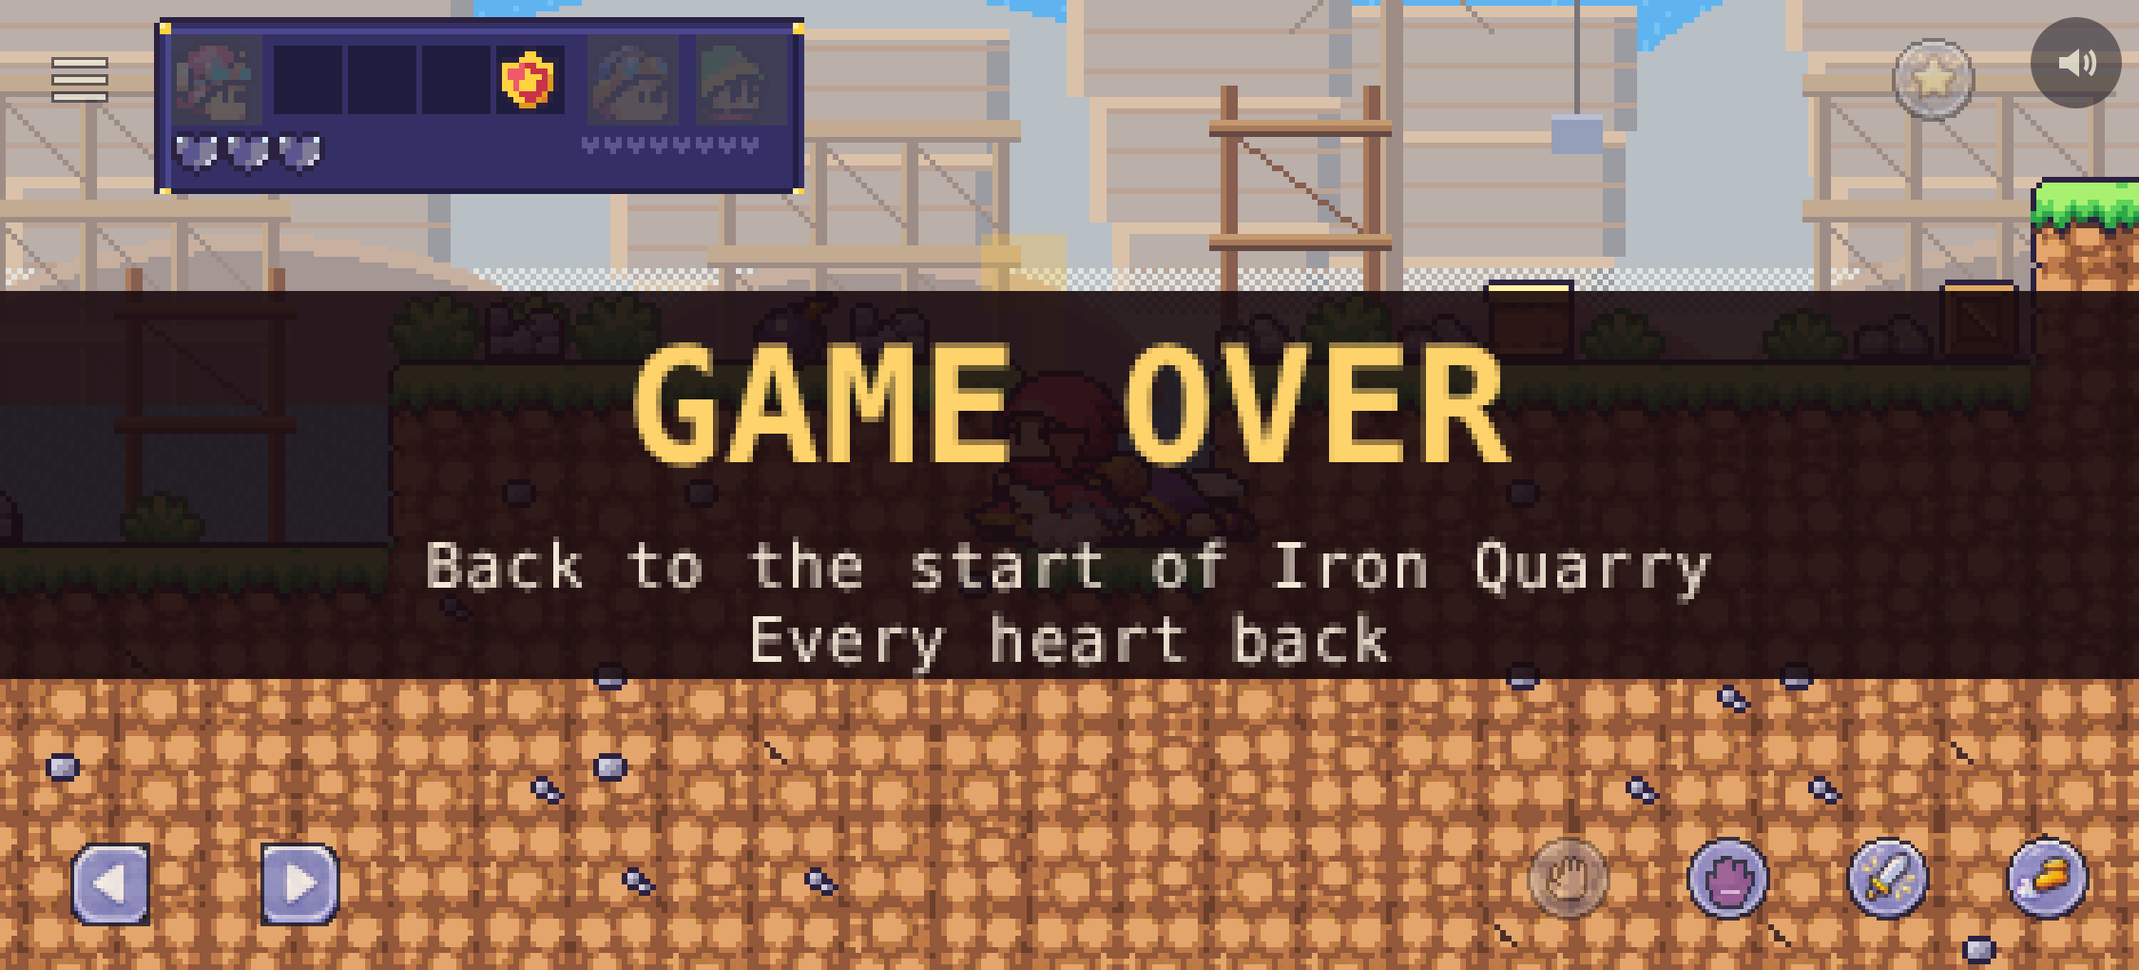
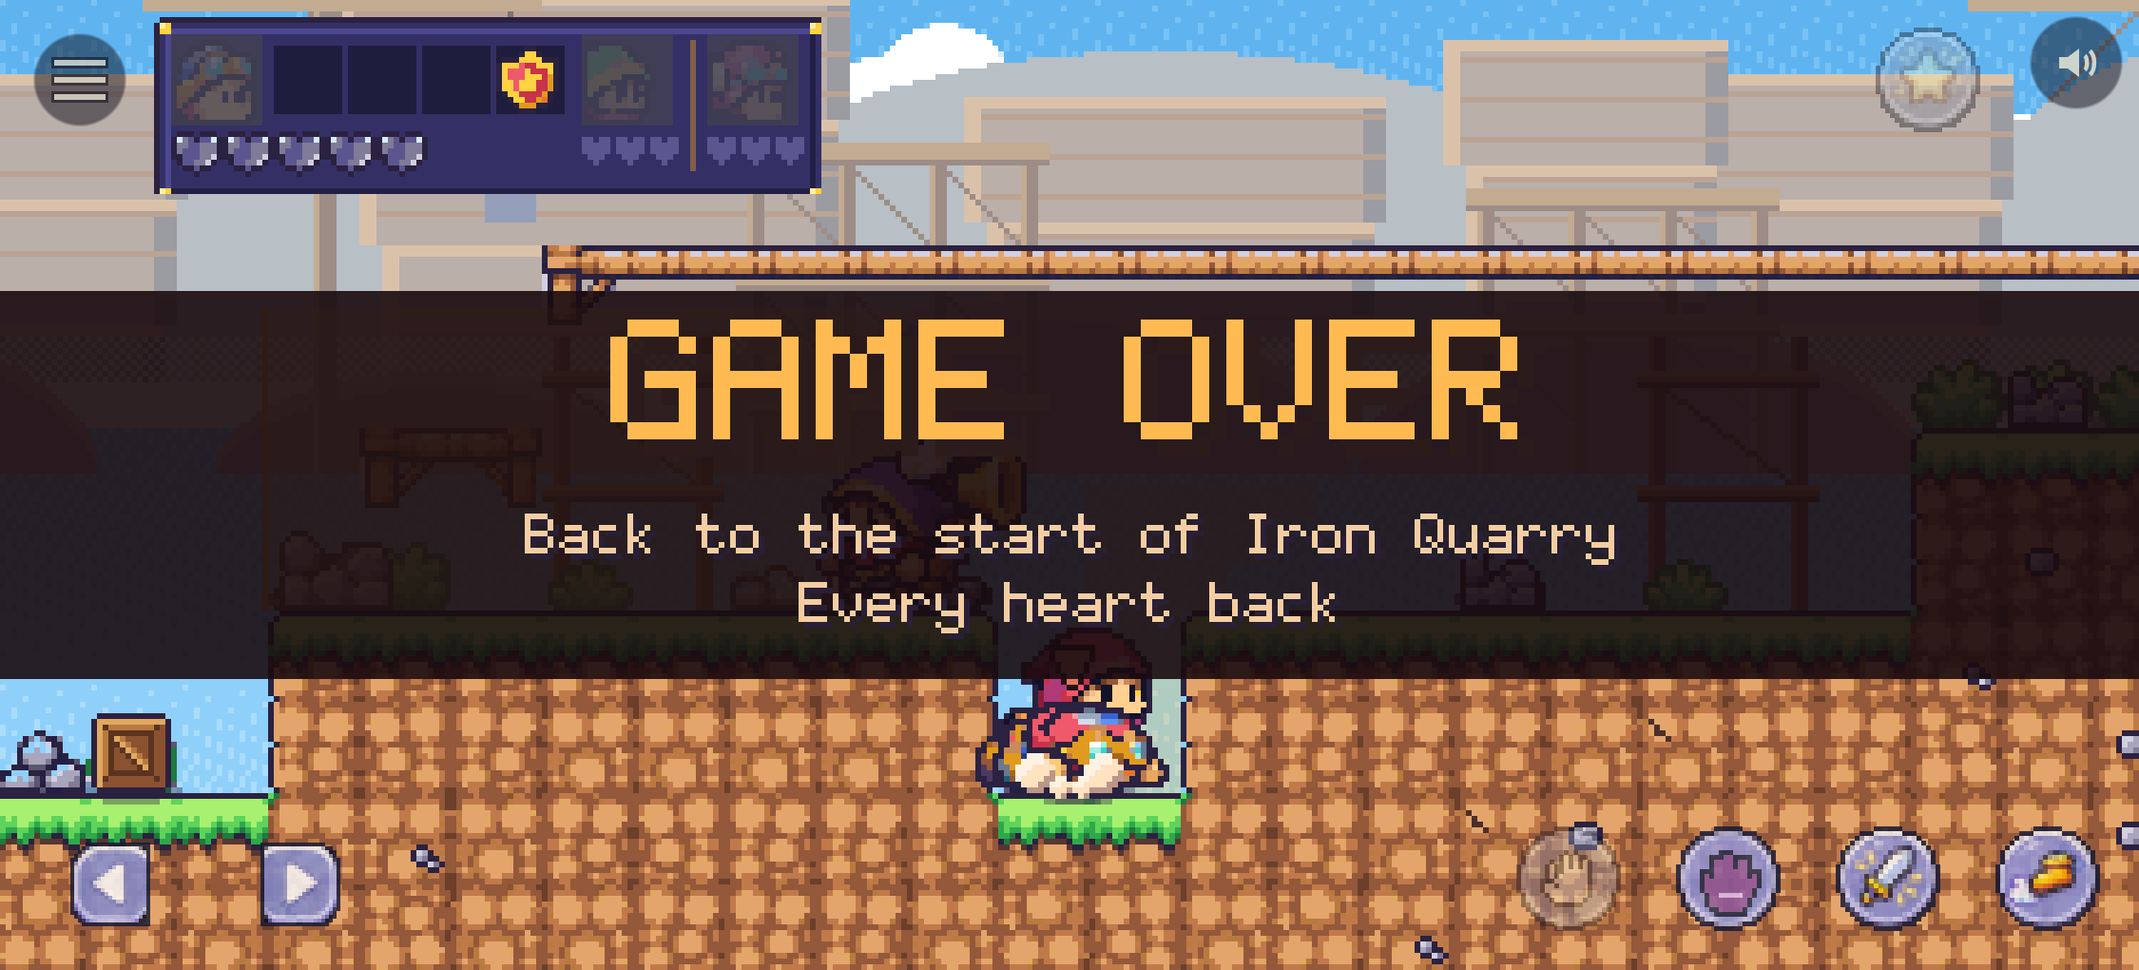
Step 22 item 2: stage-beaten-entrance runs in the full e2e (the check's own server starts the party on its last heart)
Why: the step was opt-in (E2E_STAGE_BEATEN=1); inside the full run the
party's eleven hearts outlasted its wait.

What: GameOptions.checkHooks (additive, src/server/game.ts makeWorld; set by
main.ts from IRREVERENTS_CHECK_HOOKS=1, which only scripts/e2e.ts's own
server passes, never Railway): a world named e2e-hearts-low-... starts with
the party on its last heart. The step walks into the road by touch, then the
page stands its hero in the road lookout's sight (first ledge, column 23);
his called waves beat it. Measured: stood on the toll flat it was never hit
in 4 minutes (no call, no swing). The hop east is gone (it could land on the
high walk).

Ran: npm run build, npm run check (ok), npm run gates (6 of 6), npm run e2e
(e2e: ok, this fact included); the step alone 4 of 4 green in 35-63 s.
Control watched failing: a server without the hook, one hero out in 4
minutes and no card. Shot push4-beaten-moment re-taken and looked at.
Measure row: none. Undo: revert the commit.

Claude-Session: https://claude.ai/code/session_017WiGzJudo6Zjh95Uh99rkH

diff --git a/scripts/e2e/stage.ts b/scripts/e2e/stage.ts
@@ -15,12 +15,20 @@
 // sends `stage-cleared` to every page is game.ts's (every snap carries every
 // event), and the scenarios prove the event.
 // Step 22 3b, the two the signal owed:
-// - stage-beaten-entrance (DRAFT, only with E2E_STAGE_BEATEN=1 until it is
-//   reliable in the full run): a phone page, by touch, walks into the quarry and
-//   up to the road's fighters, and stands there until the whole party is out
+// - stage-beaten-entrance: a phone page, by touch, walks into the quarry,
+//   stands in the road lookout's sight until the whole party is out
 //   of hearts: the GAME OVER card is drawn, the page is at the stage's
 //   entrance (the road, just inside the courtyard doorway) and the stick then
 //   moves the hero. Shot: push4-beaten-moment-844x390.png (the card).
+//   DRAFT (the seventh builder, the lead's 12:05 ruling): its world is named
+//   HEARTS_LOW_PREFIX…, so this check's own server (checkHooks, never live)
+//   starts the party on its last heart: one fall is the game over, where
+//   eleven hearts outlasted the full run's wait. Inside the road the page
+//   stands its own hero on the first ledge (a page owns its character's
+//   motion, as stage-cleared-walked does) in the road lookout's sight, and
+//   again whenever a blow carries it off: his call's waves beat it. Not by
+//   hopping east: the hop could land on the high walk and carry the hero over
+//   the toll on the scaffold.
 // - stage-cleared-walked: STAGE CLEARED from the server's own `stage-cleared`,
 //   not `irreverents.stage.show`: the page stands its own hero in the depot a
 //   few tiles west of the end (a page owns its character's motion, as
@@ -92,9 +100,7 @@ export async function stageFacts(kit: Kit & { shots?: string }): Promise<void> {
   const { fact, devices } = kit;
   const shots = kit.shots ?? kit.out;
   fs.mkdirSync(shots, { recursive: true });
-  // DRAFT: not in the suite yet. It passed alone (GAME OVER after ~2 min, at the entrance, the stick moved the hero), but inside the full
-  // run it ran out of its 4-minute wait before the party was out of hearts (docs/plan/step-22.md, the fourth builder's handoff).
-  if (process.env.E2E_STAGE_BEATEN === '1') await beatenAtTheEntrance(kit, shots);
+  await beatenAtTheEntrance(kit, shots);
   await walkedClear(kit);
   const sizes: [string, any][] = [
     ['upright-390x664', { ...devices['iPhone 14'] }],
@@ -157,34 +163,33 @@ export async function stageFacts(kit: Kit & { shots?: string }): Promise<void> {
 
 const roomOf = (ph: Phone): Promise<string> => ph.page.evaluate(() => (window as any).irreverents.drawn.room);
 
-/** Holds the stick east with Jump tapped every 0.7 s until the page draws its hero at or past `x` (room pixels), or `ms` pass. As quarry.ts's hopTo. */
-async function hopTo(ph: Phone, x: number, ms = 30000): Promise<boolean> {
-  const p = await pointOn(ph, '[data-stick]', 0.9);
-  const jump = await pointOn(ph, '[data-action="jump"]');
-  if (!p || !jump) return false;
-  const end = Date.now() + ms;
-  let ok = false;
-  await ph.cdp.send('Input.dispatchTouchEvent', { type: 'touchStart', touchPoints: [{ ...p, id: 1 }] });
-  while (Date.now() < end) {
-    if (((await me(ph))?.x ?? 0) >= x) {
-      ok = true;
-      break;
-    }
-    await ph.cdp.send('Input.dispatchTouchEvent', { type: 'touchStart', touchPoints: [{ ...p, id: 1 }, { ...jump, id: 2 }] });
-    await sleep(300);
-    await ph.cdp.send('Input.dispatchTouchEvent', { type: 'touchEnd', touchPoints: [] });
-    await ph.cdp.send('Input.dispatchTouchEvent', { type: 'touchStart', touchPoints: [{ ...p, id: 1 }] });
-    await sleep(400);
-  }
-  await ph.cdp.send('Input.dispatchTouchEvent', { type: 'touchEnd', touchPoints: [] });
-  await settle(ph);
-  return ok;
-}
+/**
+ * Where the page stands its hero: the road's first ledge at column 23, feet on row 15, five tiles east of the road's lookout
+ * (column 18, looking east 3 s in every 7): he sees the hero, calls, and his waves (content/outposts/quarry-road.json) do the
+ * beating. INTENT (measured by the seventh builder): not the toll flat; the toll's watcher and keeper never swing at a hero
+ * with no call raised (paying is the one deed that troubles them), and a hero stood there unseen was never hit in 4 minutes.
+ */
+const STAND = { col: 23, feetRow: 15 };
+const standInSight = (ph: Phone): Promise<boolean> =>
+  ph.page.evaluate((t: { col: number; feetRow: number }) => {
+    const irr = (window as any).irreverents;
+    const mine = irr.world.entities.find((e: any) => e.player === irr.player);
+    if (!mine || mine.room !== 'quarry-road') return false;
+    const box = irr.content.characters[mine.kind].box;
+    const tile = irr.content.rooms['quarry-road'].tile;
+    mine.x = t.col * tile;
+    mine.y = t.feetRow * tile - box.h;
+    mine.vx = 0;
+    mine.vy = 0;
+    mine.facing = 1;
+    return true;
+  }, STAND);
 
-/** By touch into the quarry road and up to its fighters (column 39), standing there until the party is out of hearts; then at the entrance, the stick moves the hero. */
+/** By touch into the quarry road; stood in the road lookout's sight (again after each blow carries it off) until the party is out of hearts; then at the entrance, the stick moves the hero. */
 export async function beatenAtTheEntrance(kit: Kit, shots: string): Promise<void> {
   const { fact } = kit;
-  const ph = await phone(kit, `${kit.base}/?room=e2e-stage-beaten-${Math.random().toString(36).slice(2, 8)}`, 'stage beaten');
+  // HEARTS_LOW_PREFIX (src/server/game.ts): this check's own server starts this world's party on its last heart.
+  const ph = await phone(kit, `${kit.base}/?room=e2e-hearts-low-stage-${Math.random().toString(36).slice(2, 8)}`, 'stage beaten');
   try {
     const toCourtyard = (await walkInto(ph, 1, 'castle-street')) && (await walkInto(ph, 1, 'courtyard'));
     const c = await ph.page.evaluate(() => {
@@ -198,8 +203,8 @@ export async function beatenAtTheEntrance(kit: Kit, shots: string): Promise<void
     if (toCourtyard) await standAt(ph, c.doorX + (c.doorW - c.w) / 2, 1);
     await pushUp(ph);
     const inside = await ph.page.waitForFunction(() => (window as any).irreverents.drawn.room === 'quarry-road', null, { polling: 'raf', timeout: 4000 }).then(() => true, () => false);
-    const reached = inside && (await hopTo(ph, 39 * c.tile, 40000));
-    // Stand among them: back east (hopping) whenever knocked west of column 36, until the GAME OVER card and the entrance.
+    const reached = inside && (await standInSight(ph));
+    // Stand in his sight: stood back on the ledge whenever a blow carries the hero two tiles or more off it, until the GAME OVER card and the entrance.
     let card = false;
     let over = false;
     let falls = 0;
@@ -208,8 +213,8 @@ export async function beatenAtTheEntrance(kit: Kit, shots: string): Promise<void
       await sleep(500);
       const s = (await ph.page.evaluate(() => {
         const irr = (window as any).irreverents;
-        return { room: irr.drawn.room, x: irr.drawn.me?.x ?? 0, kind: irr.drawn.me?.kind ?? '', card: !!irr.drawn.gameOver, cond: irr.drawn.condition };
-      })) as { room: string; x: number; kind: string; card: boolean; cond: string };
+        return { room: irr.drawn.room, x: irr.drawn.me?.x ?? 0, y: irr.drawn.me?.y ?? 0, kind: irr.drawn.me?.kind ?? '', card: !!irr.drawn.gameOver, cond: irr.drawn.condition };
+      })) as { room: string; x: number; y: number; kind: string; card: boolean; cond: string };
       if (lastKind && s.kind !== lastKind) falls++;
       lastKind = s.kind;
       if (s.card && !card) {
@@ -217,7 +222,7 @@ export async function beatenAtTheEntrance(kit: Kit, shots: string): Promise<void
         await ph.page.screenshot({ path: path.join(shots, 'push4-beaten-moment-844x390.png') });
       }
       if (card && !s.card) over = true;
-      else if (!s.card && s.cond !== 'down' && s.room === 'quarry-road' && s.x < 36 * c.tile) await hopTo(ph, 39 * c.tile, 4000);
+      else if (!s.card && s.cond !== 'down' && s.room === 'quarry-road' && (Math.abs(s.x - STAND.col * c.tile) >= 2 * c.tile || s.y < (STAND.feetRow - 4) * c.tile)) await standInSight(ph);
     }
     await ph.page.waitForFunction(() => (window as any).irreverents.drawn.condition !== 'down', null, { polling: 'raf', timeout: 8000 }).catch(() => undefined);
     await settle(ph);
@@ -236,7 +241,7 @@ export async function beatenAtTheEntrance(kit: Kit, shots: string): Promise<void
       moved = Math.abs(((await me(ph))?.x ?? x0) - x0);
     }
     fact('stage-beaten-entrance', reached && card && atEntrance && moved > 8,
-      `by touch into the quarry road (${inside}) and up to its fighters at column 39 (${reached}), standing there: the hero changed ${falls} time(s) as each ran out of hearts, the GAME OVER card was drawn (${card}); after it the page is in ${at.room} at x ${Math.round(at.x)} (the entrance is x ${c.entrance[0]}-${c.entrance[1]}: ${atEntrance}) and the stick moved the hero ${moved.toFixed(1)} px`);
+      `by touch into the quarry road (${inside}), stood on its first ledge at column ${STAND.col} in its lookout's sight (${reached}), the party on its last heart (a check world): the hero changed ${falls} time(s) as each ran out of hearts, the GAME OVER card was drawn (${card}); after it the page is in ${at.room} at x ${Math.round(at.x)} (the entrance is x ${c.entrance[0]}-${c.entrance[1]}: ${atEntrance}) and the stick moved the hero ${moved.toFixed(1)} px`);
   } finally {
     await ph.ctx.close();
   }

diff --git a/src/server/game.ts b/src/server/game.ts
@@ -7,6 +7,7 @@ import type { Content } from '../content/types.ts';
 import { clone, DEFAULT_WORLD, looksLikeEntity, playerEntityId } from '../net/protocol.ts';
 import type { ClientMessage, ServerMessage } from '../net/protocol.ts';
 import { applyEffect, heldBy } from '../sim/effects.ts';
+import { maxHearts } from '../sim/hearts.ts';
 import type { Effect } from '../sim/effects.ts';
 import { boxInSolid, firstFreeMember, memberTaken } from '../sim/party.ts';
 import { step } from '../sim/step.ts';
@@ -71,7 +72,17 @@ export interface GameOptions {
   problem?: (message: string) => void;
   /** Step 17: how often a game is saved while anyone is in it (ms); SAVE_EVERY_MS unless a check says otherwise. */
   saveEveryMs?: number;
+  /**
+   * Step 22 (additive, the seventh builder): worlds made for a local check
+   * may start part-played (`makeWorld`). Set only by scripts/e2e.ts's own
+   * server (IRREVERENTS_CHECK_HOOKS=1, read in src/server/main.ts); absent
+   * everywhere else, the live address included.
+   */
+  checkHooks?: boolean;
 }
+
+/** A world named so by a check starts with the whole party down to its last heart (`checkHooks` only). */
+export const HEARTS_LOW_PREFIX = 'e2e-hearts-low-';
 
 function cleanInput(raw: unknown): Input {
   const i = (raw ?? {}) as Partial<Input>;
@@ -172,6 +183,15 @@ export function attachGame(server: http.Server, opts: GameOptions) {
       if (name === DEFAULT_WORLD || code) gw.world.roster = [...content.roster.start];
       // Whatever content/placements/ puts in each room (crates, dummies, people).
       for (const roomId of Object.keys(content.rooms)) populateRoom(gw.world, content, roomId);
+      // INTENT (Step 22, the seventh builder; the lead: "seed hearts through a server hook for check worlds
+      // only ... never reachable by a real player"): a local check's world named HEARTS_LOW_PREFIX… starts with
+      // the party's first member on one heart and every other member out, so one fall is the game over
+      // (scripts/e2e/stage.ts, stage-beaten-entrance). Only with `checkHooks`, which only scripts/e2e.ts's
+      // own server sets: on the live address the prefix is an ordinary private world.
+      if (opts.checkHooks && name.startsWith(HEARTS_LOW_PREFIX)) {
+        const members = gw.world.party ?? content.party.members;
+        gw.world.heartsLost = Object.fromEntries(members.map((m, i) => [m, maxHearts(content, m) - (i === 0 ? 1 : 0)]));
+      }
     }
     return gw;
   };

diff --git a/src/server/main.ts b/src/server/main.ts
@@ -171,7 +171,8 @@ const server = http.createServer((req, res) => {
 
 // The network layer (docs/mechanisms/network.md). /healthz adds its counts
 // (worlds, players) beside the fields above; additive.
-game = attachGame(server, { content: __CONTENT__, commit, startedAt, store, problem: (m) => errorLog.note(m) });
+// Step 22 (additive): IRREVERENTS_CHECK_HOOKS is set only by scripts/e2e.ts's own server, never on Railway (GameOptions.checkHooks).
+game = attachGame(server, { content: __CONTENT__, commit, startedAt, store, problem: (m) => errorLog.note(m), checkHooks: process.env.IRREVERENTS_CHECK_HOOKS === '1' });
 
 // Step 17: a deploy stops this process (SIGTERM) before the new one starts:
 // every game being played is saved first, so nothing since the last

diff --git a/scripts/e2e.ts b/scripts/e2e.ts
@@ -55,7 +55,8 @@ function freePort(): Promise<number> {
 }
 function startServer(port: number, commit?: string): Promise<void> {
   return new Promise((resolve, reject) => {
-    const env: NodeJS.ProcessEnv = { ...process.env, PORT: String(port) };
+    // Step 22: check hooks on (src/server/game.ts GameOptions.checkHooks): this server is the check's own.
+    const env: NodeJS.ProcessEnv = { ...process.env, PORT: String(port), IRREVERENTS_CHECK_HOOKS: '1' };
     delete env.RAILWAY_GIT_COMMIT_SHA;
     if (commit) env.RAILWAY_GIT_COMMIT_SHA = commit;
     const child = spawn(process.execPath, [path.join(root, 'dist/server.cjs')], { env, stdio: ['ignore', 'pipe', 'inherit'] });

diff --git a/docs/process-observations.md b/docs/process-observations.md
@@ -279,3 +279,4 @@ Step 1 Gate 2 worker (`session_017WiGzGmZK2vRuZTfKA24QD`). The Gate 2 brief was 
 - 2026-11-24 10:15 UTC, orchestrator `session_017WiGzHhT2apmWHT61rQ65G`: sessions spawned with `blob_limit_kb: 150` carry git's skip-worktree flag on files the clone left on the server, and `git add -A` silently drops edits to them. `docs/decisions-log.md` was hit twice (vehicles builder B, ~03:40, when it was 212 KB; Step 15's lead, 09:58, when it was 78 KB, so being under 150 KB did not protect it: cause not found). Split the file at 6c16b3e; a check before every commit added to `docs/roles/builder-card.md` section 6 at this commit. Not done: finding why a 78 KB file is flagged, and a check for leads (`docs/lead-session.md`).
 
 - 2026-11-24 12:45 UTC, Step 15's second builder `session_017WiGzG4nNVPXPAo2ztGmx3`: a green push (13499e1, content only under the watched `content/**`) never went live: `/healthz` stayed on the previous commit 8246fc5 for about eight minutes and `check:deployed` failed twice. Reverted per the gate (b2f3e99), and that revert went live in about 30 s; the same tree re-pushed (4323a15) went live in about two minutes. So a Railway deploy can be skipped with nothing wrong in the commit; the costs were two extra restarts of the live game and about 15 minutes. Also: `git commit --amend` right after a `git revert -q` that had not made a commit rewrote the push's own commit locally (caught before pushing). Read `git log -2` before an amend.
+- 2026-11-24 13:03 UTC, Step 22's seventh builder `session_017WiGzJudo6Zjh95Uh99rkH`: the same thing again, about 20 minutes after Step 15's. A green push (f6a6ee8: one `content/rooms/` file plus scripts and documents) was not live after five minutes (`/healthz` stayed on 137f91b). Reverted (1ade6a2) and the same tree re-pushed (1dcc14c), which went live within about two minutes. Twice in an hour suggests the skip is Railway's and comes back, not a one-off. I also fell into the same `git revert -q` trap noted above (revert takes no `-q`; the `--amend` after it reworded the push's own commit as "Revert"). The rejected push caught it, because `main` had moved. A `git revert` flag check in the pre-push gate, or "never `--amend` a revert", would have saved it.

diff --git a/docs/plan/step-22.md b/docs/plan/step-22.md
@@ -843,3 +843,12 @@ before you quote it.
 - The window, swept by me (`QSWEEP=8 node scripts/stage-quiet.ts scripts/stage-routes/quiet-infiltrator.json`): 84 of the waits pass, 312 to 395 in a row, about 1.4 s. The pass over the heavy is now one a person can make.
 - Looked at `push5-road-top-plank-sideways-844x390.png`: the hero is on the top plank, over the heavy, under the flyer's ledge.
 - The builder's change to my ruling, a plank at row 7 instead of moving all of row 8, is accepted. It is measured, and it keeps the small heroes' sneaks.
+
+### Item 2: `stage-beaten-entrance` in the full e2e (seventh builder)
+
+- **The hearts seed, test-only** (the lead's preferred way): `GameOptions.checkHooks` in `src/server/game.ts` (additive; set by `src/server/main.ts` from `IRREVERENTS_CHECK_HOOKS=1`, which only `scripts/e2e.ts`'s own server passes). A world named `e2e-hearts-low-…` then starts with the party's first member on one heart and the others out. On Railway the variable is never set, so the name is an ordinary private world, and `check:live` doesn't run the stage facts.
+- **Measured first:** stood on the toll flat (column 41) with one heart, the hero was never hit in 4 minutes. The toll's watcher and keeper don't swing without a call; the old walk got its falls because it passed the road's lookout, who called. So the page now walks in by touch and stands its own hero in the lookout's sight (first ledge, column 23), and again whenever a blow carries it off. His waves do the beating. No more hop east, so it can't land on the high walk.
+- **Runs:** alone, 4 of 4 green (35-63 s). The full `npm run e2e`: `e2e: ok`, this fact included. Out of opt-in (`E2E_STAGE_BEATEN` is gone).
+- **Control, watched failing:** the same step against a server without the hook (11 hearts): one hero out in 4 minutes, no card.
+- **Shot:** `push4-beaten-moment-844x390.png` re-taken by the run, looked at: the GAME OVER card, legible.
+- **Measuring trap:** a page's `irreverents.world` holds only its own simulation's bodies, not the bad guys it draws (the snapshot had all seven road bodies; the page's world showed only `road-toll`). Look at the snapshot or a screenshot, not that list.

diff --git a/docs/mechanisms/stages.md b/docs/mechanisms/stages.md
@@ -181,10 +181,12 @@ view. The
 e2e's `stage-*` facts (`scripts/e2e/stage.ts`): the screen at three phone
 sizes inside the view, Continue in the safe area and reachable, the stick
 resting while it is up (`stage-held`, the control), Continue giving it
-back, and two pages each dismissing their own. Step 22 3b added two: `stage-beaten-entrance` (`DRAFT:`, run only with
-`E2E_STAGE_BEATEN=1`: it passed alone but timed out inside the full run; by touch into the
-quarry road and up to its fighters, standing there until the whole party is
-out of hearts: the GAME OVER card, then the page at the entrance, and the
+back, and two pages each dismissing their own. Step 22 3b added two: `stage-beaten-entrance` (`DRAFT:`, in the full run since the seventh
+builder: its world is `e2e-hearts-low-…`, so the check's own server starts
+the party on its last heart, `docs/mechanisms/network.md`; by touch into the
+quarry road, then stood by the page in the road lookout's sight, column 23,
+until his called waves put the party out of hearts (35-63 s; control, a
+server without the hook: one hero out in 4 minutes and no card): the GAME OVER card, then the page at the entrance, and the
 stick moves the hero; shot `push4-beaten-moment-844x390.png`) and
 `stage-cleared-walked` (the page stands its own hero in the depot six tiles
 west of the end and walks east by the stick: STAGE CLEARED comes from the

diff --git a/docs/mechanisms/network.md b/docs/mechanisms/network.md
@@ -33,7 +33,11 @@ with a throwaway entity kind on every `npm run check`).
   created (`createWorld` + `populateRoom`), and **`onEvents`** the one
   place the server receives each tick's events from `step()`: add to
   those two for anything a new world must start with or the server must
-  do about an event (Step 7's stored records).
+  do about an event (Step 7's stored records). Check hooks (Step 22,
+  `DRAFT:`): with `GameOptions.checkHooks` (`IRREVERENTS_CHECK_HOOKS=1`,
+  set only by `scripts/e2e.ts`'s own server, never on Railway) a world named
+  `e2e-hearts-low-…` starts with the party on its last heart; anywhere else
+  that name is an ordinary private world.
 - **`content/net.json`** (`src/content/kinds/net.ts`): every rate and
   timeout, and the graybox player colours. All `DRAFT:`.
 - **Messages** (JSON text over one WebSocket at `/ws`; `DRAFT:`):
